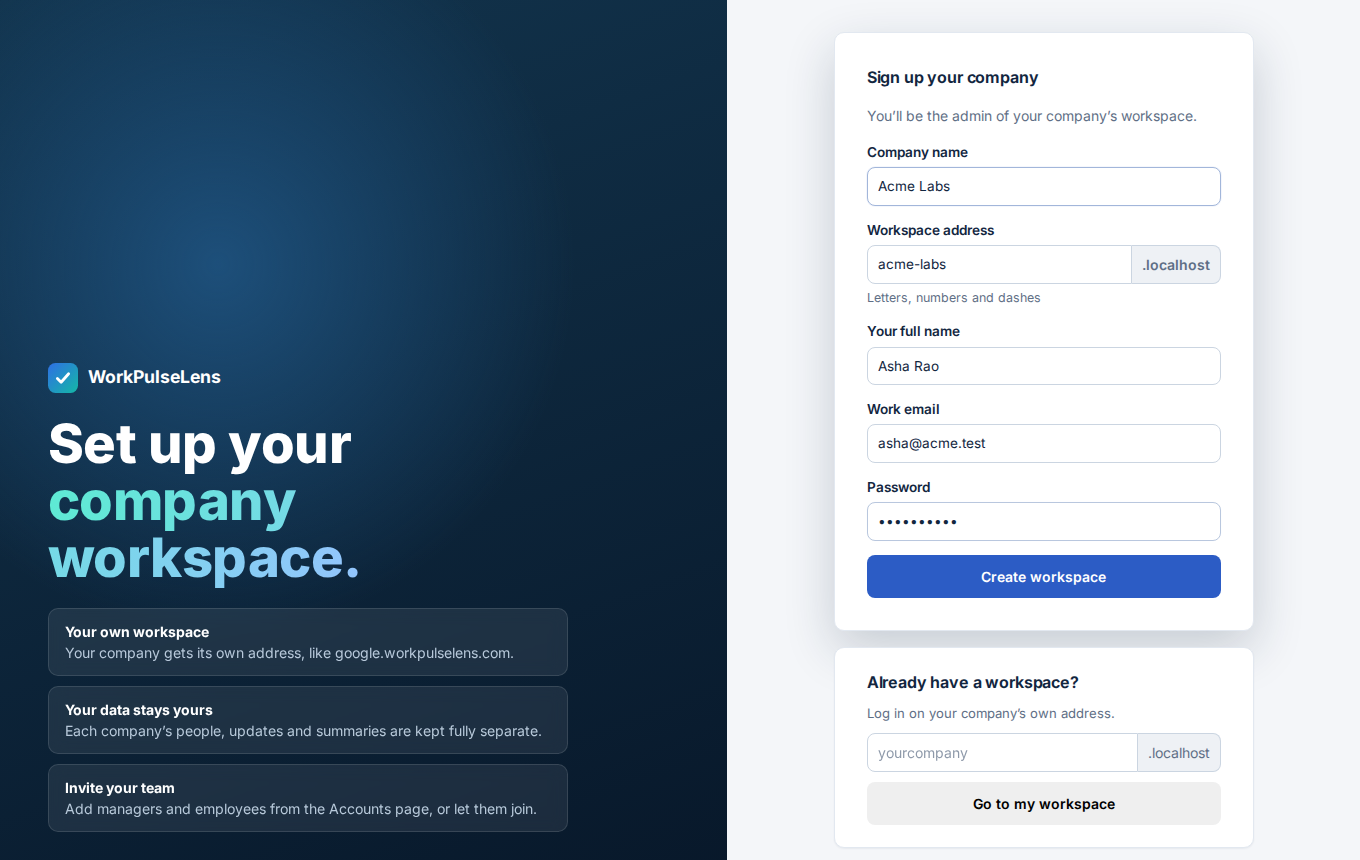
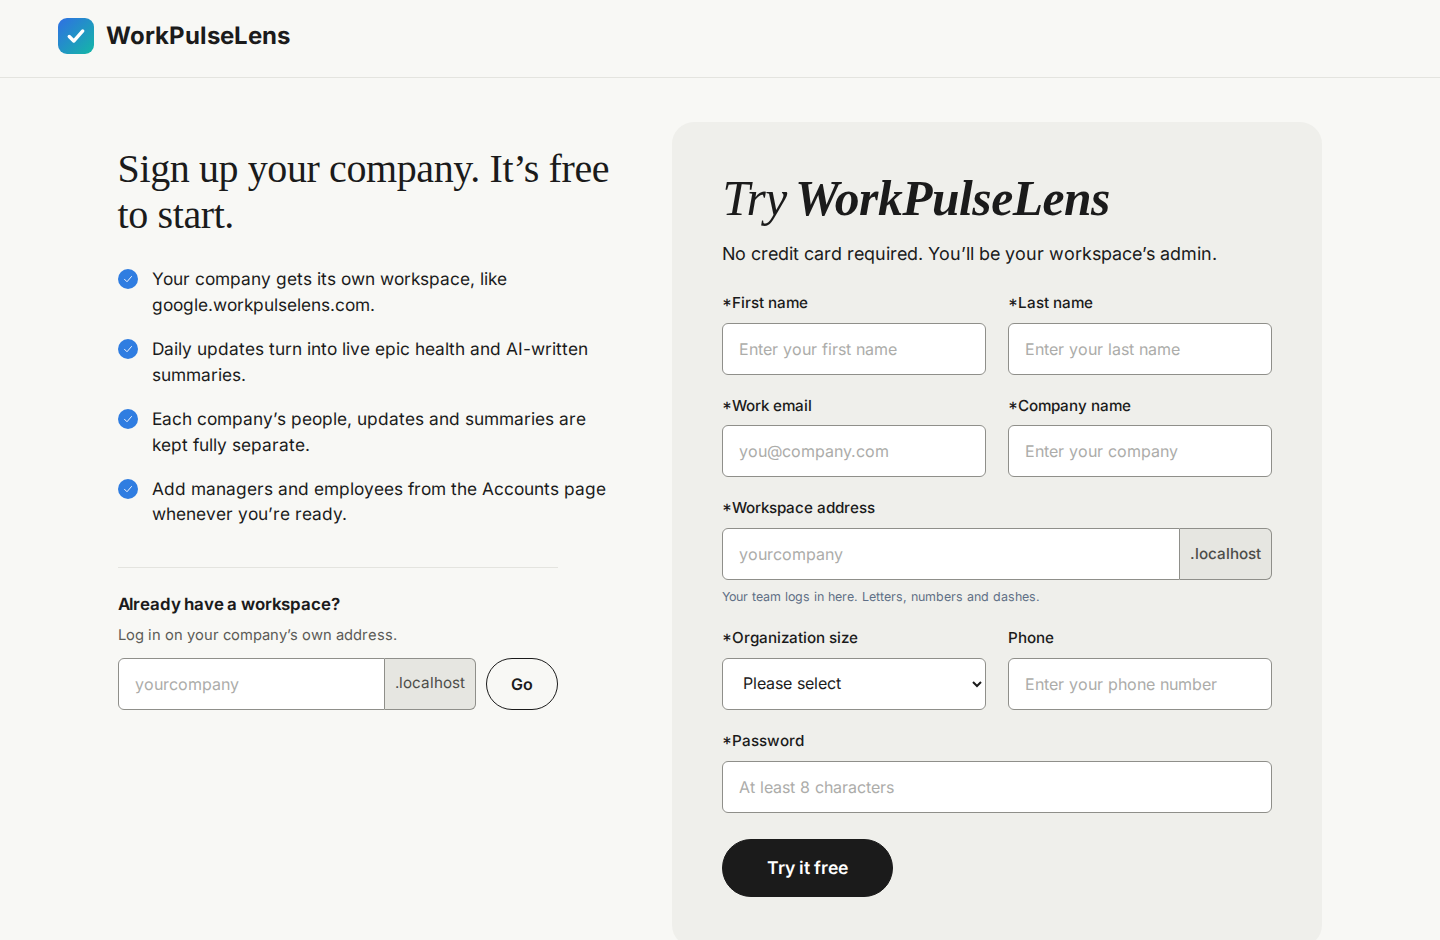
Redesign company sign-up as a two-column trial form
Adds first and last name, organization size and an optional phone number,
stored on the company.

Claude-Session: https://claude.ai/code/session_01QNB12gti4QoanC3ybiEzFY

diff --git a/frontend/src/pages/CompanySignup.jsx b/frontend/src/pages/CompanySignup.jsx
@@ -1,16 +1,18 @@
-import { lazy, Suspense, useEffect, useRef, useState } from 'react';
+import { useEffect, useRef, useState } from 'react';
 import { api } from '../api.js';
 import { useToast } from '../components/Toast.jsx';
 import Logo from '../components/Logo.jsx';
+import Icon from '../components/Icon.jsx';
 import { slugify, workspaceUrl } from '../workspace.js';
 
-const Scene3D = lazy(() => import('../components/Scene3D.jsx'));
-
-const FEATURES = [
-  ['Your own workspace', 'Your company gets its own address, like google.workpulselens.com.'],
-  ['Your data stays yours', 'Each company’s people, updates and summaries are kept fully separate.'],
-  ['Invite your team', 'Add managers and employees from the Accounts page, or let them join.'],
+const POINTS = [
+  'Your company gets its own workspace, like google.workpulselens.com.',
+  'Daily updates turn into live epic health and AI-written summaries.',
+  'Each company’s people, updates and summaries are kept fully separate.',
+  'Add managers and employees from the Accounts page whenever you’re ready.',
 ];
+
+const ORG_SIZES = ['1-10', '11-50', '51-200', '201-1000', '1000+'];
 
 // The public site only signs companies up. People log in on their company's own address,
 // so "Sign in" here just takes them there.
@@ -48,12 +50,23 @@ export default function CompanySignup({ rootDomain, mode = 'signup' }) {
 
   async function submit(e) {
     e.preventDefault();
-    const form = Object.fromEntries(new FormData(e.currentTarget));
+    const f = Object.fromEntries(new FormData(e.currentTarget));
     setBusy(true);
     try {
-      const { workspace } = await api('/api/companies', { method: 'POST', body: { ...form, companyName: company, slug } });
+      const { workspace } = await api('/api/companies', {
+        method: 'POST',
+        body: {
+          companyName: company,
+          slug,
+          name: `${f.firstName.trim()} ${f.lastName.trim()}`.trim(),
+          email: f.email,
+          password: f.password,
+          orgSize: f.orgSize,
+          phone: f.phone,
+        },
+      });
       toast(`${workspace.name} is ready. Taking you to your workspace…`, 'success');
-      const email = encodeURIComponent(form.email);
+      const email = encodeURIComponent(f.email);
       setTimeout(() => {
         window.location.href = workspaceUrl(workspace.slug, rootDomain, `/#/login?welcome=1&email=${email}`);
       }, 900);
@@ -72,92 +85,133 @@ export default function CompanySignup({ rootDomain, mode = 'signup' }) {
   const taken = check && check.slug === slug && !check.available;
 
   return (
-    <div className="auth-layout">
-      <section className="auth-hero">
-        <div className="auth-scene">
-          <Suspense fallback={<div className="scene-fallback" />}>
-            <Scene3D />
-          </Suspense>
-        </div>
-        <div className="auth-copy">
-          <a href="#/" className="auth-home" aria-label="WorkPulseLens home">
-            <Logo />
-          </a>
-          <h1>
-            Set up your
-            <br />
-            <span className="gradient-text">company workspace.</span>
-          </h1>
-          <ul className="feature-list">
-            {FEATURES.map(([title, text]) => (
-              <li key={title}>
-                <strong>{title}</strong>
-                <span>{text}</span>
+    <div className="cs">
+      <header className="cs-header">
+        <a href="#/" className="cs-brand" aria-label="WorkPulseLens home">
+          <Logo />
+        </a>
+      </header>
+
+      <main className="cs-main">
+        <section className="cs-intro">
+          <h1>Sign up your company. It’s free to start.</h1>
+          <ul className="cs-points">
+            {POINTS.map((p) => (
+              <li key={p}>
+                <span className="cs-tick" aria-hidden="true">
+                  <Icon name="check" size={12} />
+                </span>
+                {p}
               </li>
             ))}
           </ul>
-        </div>
-      </section>
 
-      <section className="auth-panel">
-        <div className="auth-stack">
-          <div className="card auth-card">
-            <h2>Sign up your company</h2>
-            <p className="muted">You’ll be the admin of your company’s workspace.</p>
-            <form className="form" onSubmit={submit}>
-              <label>
-                Company name
-                <input name="companyName" value={company} onChange={onCompany} maxLength={100} autoComplete="organization" required />
-              </label>
-              <label>
-                Workspace address
-                <div className="address-field">
-                  <input
-                    name="slug"
-                    value={slug}
-                    onChange={(e) => {
-                      setSlugEdited(true);
-                      setSlug(e.target.value.toLowerCase().replace(/[^a-z0-9-]/g, '').slice(0, 40));
-                    }}
-                    aria-describedby="slug-help"
-                    aria-invalid={taken || undefined}
-                    required
-                  />
-                  <span>.{rootDomain}</span>
-                </div>
-                <span id="slug-help" className={`field-help ${taken ? 'field-error' : ''}`}>
-                  {taken ? check.reason || 'That address is taken' : check?.available ? 'Available' : 'Letters, numbers and dashes'}
-                </span>
-              </label>
-              <label>
-                Your full name
-                <input name="name" maxLength={100} autoComplete="name" required />
-              </label>
-              <label>
-                Work email
-                <input name="email" type="email" autoComplete="email" required />
-              </label>
-              <label>
-                Password
-                <input name="password" type="password" minLength={8} maxLength={128} autoComplete="new-password" required />
-              </label>
-              <button className="btn btn-primary btn-block" type="submit" disabled={busy || taken}>
-                {busy ? 'Creating your workspace…' : 'Create workspace'}
-              </button>
-            </form>
-          </div>
-
-          <form className="card auth-card auth-find" onSubmit={go}>
-            <h3>Already have a workspace?</h3>
-            <p className="muted small">Log in on your company’s own address.</p>
-            <div className="address-field">
-              <input ref={findRef} name="workspace" placeholder="yourcompany" aria-label="Your workspace address" required />
-              <span>.{rootDomain}</span>
+          <form className="cs-find" onSubmit={go}>
+            <h2>Already have a workspace?</h2>
+            <p>Log in on your company’s own address.</p>
+            <div className="cs-find-row">
+              <div className="address-field">
+                <input ref={findRef} name="workspace" placeholder="yourcompany" aria-label="Your workspace address" required />
+                <span>.{rootDomain}</span>
+              </div>
+              <button className="cs-btn cs-btn-outline" type="submit">Go</button>
             </div>
-            <button className="btn btn-block" type="submit">Go to my workspace</button>
           </form>
-        </div>
-      </section>
+        </section>
+
+        <section className="cs-card">
+          <h2 className="cs-title">
+            <em>Try</em> <strong>WorkPulseLens</strong>
+          </h2>
+          <p className="cs-sub">No credit card required. You’ll be your workspace’s admin.</p>
+
+          <form className="cs-form" onSubmit={submit}>
+            <label>
+              <span><b>*</b>First name</span>
+              <input name="firstName" placeholder="Enter your first name" maxLength={50} autoComplete="given-name" required />
+            </label>
+            <label>
+              <span><b>*</b>Last name</span>
+              <input name="lastName" placeholder="Enter your last name" maxLength={49} autoComplete="family-name" required />
+            </label>
+            <label>
+              <span><b>*</b>Work email</span>
+              <input name="email" type="email" placeholder="you@company.com" autoComplete="email" required />
+            </label>
+            <label>
+              <span><b>*</b>Company name</span>
+              <input
+                name="companyName"
+                value={company}
+                onChange={onCompany}
+                placeholder="Enter your company"
+                maxLength={100}
+                autoComplete="organization"
+                required
+              />
+            </label>
+            <label className="cs-span">
+              <span><b>*</b>Workspace address</span>
+              <div className="address-field">
+                <input
+                  name="slug"
+                  value={slug}
+                  placeholder="yourcompany"
+                  onChange={(e) => {
+                    setSlugEdited(true);
+                    setSlug(e.target.value.toLowerCase().replace(/[^a-z0-9-]/g, '').slice(0, 40));
+                  }}
+                  aria-describedby="slug-help"
+                  aria-invalid={taken || undefined}
+                  required
+                />
+                <span>.{rootDomain}</span>
+              </div>
+              <small id="slug-help" className={`field-help ${taken ? 'field-error' : check?.available ? 'field-ok' : ''}`}>
+                {taken
+                  ? check.reason || 'That address is taken'
+                  : check?.available
+                    ? `${slug}.${rootDomain} is available`
+                    : 'Your team logs in here. Letters, numbers and dashes.'}
+              </small>
+            </label>
+            <label>
+              <span><b>*</b>Organization size</span>
+              <select name="orgSize" defaultValue="" required>
+                <option value="" disabled>
+                  Please select
+                </option>
+                {ORG_SIZES.map((s) => (
+                  <option key={s} value={s}>
+                    {s} employees
+                  </option>
+                ))}
+              </select>
+            </label>
+            <label>
+              <span>Phone</span>
+              <input name="phone" type="tel" placeholder="Enter your phone number" maxLength={20} autoComplete="tel" />
+            </label>
+            <label className="cs-span">
+              <span><b>*</b>Password</span>
+              <input
+                name="password"
+                type="password"
+                placeholder="At least 8 characters"
+                minLength={8}
+                maxLength={128}
+                autoComplete="new-password"
+                required
+              />
+            </label>
+            <div className="cs-span cs-actions">
+              <button className="cs-btn" type="submit" disabled={busy || taken}>
+                {busy ? 'Creating your workspace…' : 'Try it free'}
+              </button>
+            </div>
+          </form>
+        </section>
+      </main>
     </div>
   );
 }

diff --git a/frontend/src/styles.css b/frontend/src/styles.css
@@ -867,3 +867,54 @@ legend { font-weight: 600; font-size: 0.85rem; padding: 0 4px; }
   .task-list li { flex-wrap: wrap; }
   .task-list-meta { width: 100%; justify-content: flex-start; padding-left: 30px; }
 }
+
+/* ---------- Company sign-up (public site) ---------- */
+.cs { --cs-ink: #1b1b1b; --cs-page: #f8f8f5; --cs-card: #efefeb; --cs-line: #8f8f8a; min-height: 100vh; background: var(--cs-page); color: var(--cs-ink); }
+.cs-header { padding: 18px clamp(16px, 4vw, 64px); border-bottom: 1px solid #e4e4df; }
+.cs-brand { color: inherit; text-decoration: none; display: inline-flex; }
+.cs-brand .logo { font-size: 1.5rem; gap: 12px; }
+.cs-brand .logo img { width: 36px; height: 36px; }
+.cs-main { max-width: 1320px; margin: 0 auto; padding: clamp(24px, 4vw, 44px) clamp(16px, 4vw, 64px) 64px; display: grid; grid-template-columns: minmax(0, 1fr) minmax(0, 54%); gap: clamp(24px, 4vw, 64px); align-items: start; }
+.cs-intro { padding-top: 24px; display: flex; flex-direction: column; gap: 28px; }
+.cs-intro h1, .cs-title { font-family: Georgia, 'Times New Roman', serif; font-weight: 400; letter-spacing: -0.01em; }
+.cs-intro h1 { font-size: clamp(1.8rem, 3vw, 2.5rem); line-height: 1.15; }
+.cs-points { list-style: none; padding: 0; margin: 0; display: flex; flex-direction: column; gap: 18px; font-size: 1.08rem; line-height: 1.5; }
+.cs-points li { display: flex; gap: 14px; align-items: flex-start; }
+.cs-tick { flex: none; width: 20px; height: 20px; margin-top: 3px; border-radius: 50%; display: grid; place-items: center; background: #2f7de1; color: #fff; }
+.cs-find { margin-top: 12px; padding-top: 24px; border-top: 1px solid #e4e4df; display: flex; flex-direction: column; gap: 6px; max-width: 440px; }
+.cs-find h2 { font-size: 1.05rem; }
+.cs-find p { color: #5c5c58; font-size: 0.92rem; }
+.cs-find-row { display: flex; gap: 10px; margin-top: 6px; }
+.cs-find-row .address-field { flex: 1; }
+.cs-card { background: var(--cs-card); border-radius: 22px; padding: clamp(24px, 3.5vw, 52px); display: flex; flex-direction: column; gap: 14px; }
+.cs-title { font-size: clamp(2.2rem, 3.6vw, 3.1rem); line-height: 1.1; }
+.cs-title em { font-style: italic; }
+.cs-title strong { font-weight: 700; font-style: italic; }
+.cs-sub { font-size: 1.12rem; margin-bottom: 10px; }
+.cs-form { display: grid; grid-template-columns: repeat(2, minmax(0, 1fr)); gap: 20px 22px; }
+.cs-form label { display: flex; flex-direction: column; gap: 8px; font-weight: 500; font-size: 0.95rem; min-width: 0; }
+.cs-form label b { font-weight: 500; }
+.cs-span { grid-column: 1 / -1; }
+.cs input, .cs select { background: #fff; color: var(--cs-ink); border: 1px solid var(--cs-line); border-radius: 6px; min-height: 52px; padding: 10px 16px; font-size: 1rem; }
+.cs input::placeholder { color: #8a8a86; }
+.cs input:focus, .cs select:focus { border-color: var(--cs-ink); box-shadow: 0 0 0 3px rgba(27, 27, 27, 0.12); }
+.cs .address-field span { border-color: var(--cs-line); background: #e6e6e1; color: #4d4d49; border-radius: 0 6px 6px 0; font-size: 0.95rem; }
+.cs .address-field input { border-radius: 6px 0 0 6px; }
+.cs .field-ok { color: #1f7a3d; }
+.cs-actions { padding-top: 6px; }
+.cs-btn { font: inherit; font-weight: 600; font-size: 1.1rem; color: #fff; background: var(--cs-ink); border: 1px solid var(--cs-ink); border-radius: 999px; padding: 15px 44px; cursor: pointer; transition: background 0.15s, transform 0.15s; }
+.cs-btn:hover:not(:disabled) { background: #000; transform: translateY(-1px); }
+.cs-btn:disabled { opacity: 0.55; cursor: not-allowed; }
+.cs-btn-outline { background: transparent; color: var(--cs-ink); padding: 0 24px; font-size: 1rem; }
+.cs-btn-outline:hover:not(:disabled) { background: var(--cs-ink); color: #fff; }
+@media (max-width: 900px) {
+  .cs-main { grid-template-columns: 1fr; }
+  .cs-intro { padding-top: 0; }
+  .cs-points { font-size: 1rem; }
+  .cs-find { order: 3; }
+}
+@media (max-width: 560px) {
+  .cs-form { grid-template-columns: 1fr; }
+  .cs-btn { width: 100%; }
+  .cs-find-row .cs-btn { width: auto; }
+}

diff --git a/backend/auth-service/src/main/java/com/dailyupdate/auth/CompanyRepository.java b/backend/auth-service/src/main/java/com/dailyupdate/auth/CompanyRepository.java
@@ -1,5 +1,6 @@
 package com.dailyupdate.auth;
 
+import java.sql.Types;
 import java.util.Optional;
 import org.springframework.jdbc.core.simple.JdbcClient;
 import org.springframework.stereotype.Repository;
@@ -28,11 +29,15 @@ public class CompanyRepository {
         return jdbc.sql("SELECT nextval(pg_get_serial_sequence('companies', 'id'))").query(Long.class).single();
     }
 
-    public Company insert(long id, String slug, String name) {
-        return jdbc.sql("INSERT INTO companies (id, slug, name) VALUES (:id, :slug, :name) RETURNING id, slug, name")
+    public Company insert(long id, String slug, String name, String orgSize, String phone) {
+        return jdbc.sql("""
+                        INSERT INTO companies (id, slug, name, org_size, phone) VALUES (:id, :slug, :name, :orgSize, :phone)
+                        RETURNING id, slug, name""")
                 .param("id", id)
                 .param("slug", slug)
                 .param("name", name)
+                .param("orgSize", orgSize, Types.VARCHAR)
+                .param("phone", phone, Types.VARCHAR)
                 .query(Company.class)
                 .single();
     }

diff --git a/backend/auth-service/src/main/java/com/dailyupdate/auth/Requests.java b/backend/auth-service/src/main/java/com/dailyupdate/auth/Requests.java
@@ -2,6 +2,7 @@ package com.dailyupdate.auth;
 
 import jakarta.validation.constraints.Email;
 import jakarta.validation.constraints.NotBlank;
+import jakarta.validation.constraints.Pattern;
 import jakarta.validation.constraints.Size;
 
 final class Requests {
@@ -77,5 +78,7 @@ final class Requests {
             @Email(message = "A valid email is required")
             @Size(max = 255, message = "A valid email is required") String email,
             @NotBlank(message = "Password must be 8 to 128 characters")
-            @Size(min = 8, max = 128, message = "Password must be 8 to 128 characters") String password) {}
+            @Size(min = 8, max = 128, message = "Password must be 8 to 128 characters") String password,
+            @Pattern(regexp = "|1-10|11-50|51-200|201-1000|1000\\+", message = "Pick an organization size") String orgSize,
+            @Pattern(regexp = "|\\+?[0-9 ()-]{6,20}", message = "Enter a valid phone number") String phone) {}
 }

diff --git a/backend/auth-service/src/main/java/com/dailyupdate/auth/CompanyController.java b/backend/auth-service/src/main/java/com/dailyupdate/auth/CompanyController.java
@@ -94,7 +94,8 @@ public class CompanyController {
         long id = companies.nextId();
         try {
             Company company = TenantContext.call(id, () -> tx.execute(status -> {
-                Company created = companies.insert(id, slug, body.companyName().trim());
+                Company created = companies.insert(id, slug, body.companyName().trim(),
+                        UserService.blankToNull(body.orgSize()), UserService.blankToNull(body.phone()));
                 userService.create(body.name(), body.email(), body.password(), null, "Admin", AuthUser.ADMIN);
                 holidays.seed();
                 return created;
